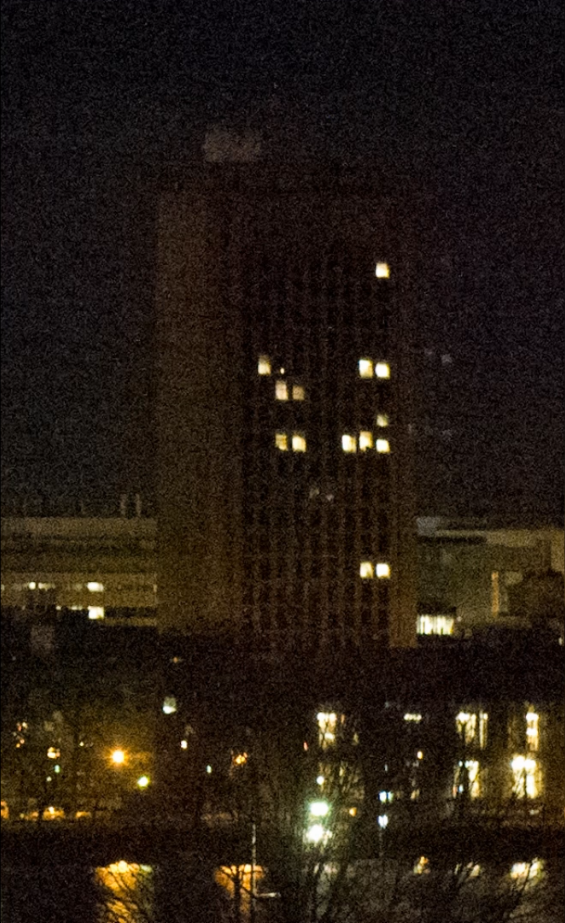
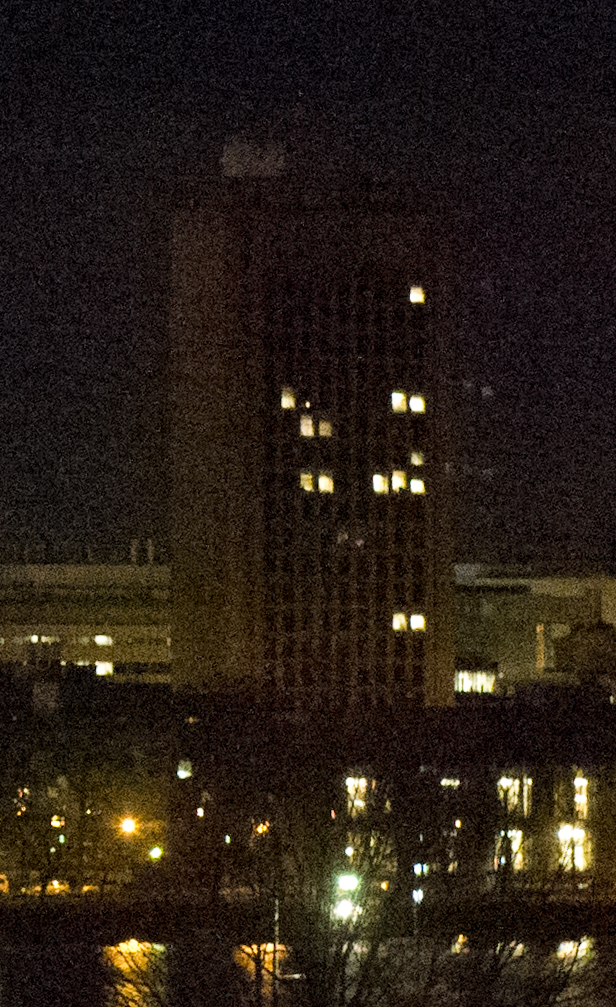
Bilateral vs non local means comparison images. Gallery bugfixes.

diff --git a/src/pages/portfolio/AdaptiveFilter.js b/src/pages/portfolio/AdaptiveFilter.js
@@ -64,7 +64,7 @@ class AdaptiveFilter extends CustomComponent
                 </Typography>
                 <Space size='sm'/>
                 {/* Images of manifold tree */}
-                <Gallery size='md' noMargins>
+                <Gallery size='md' >
                     <GalleryTile
                         image={CONSTANTS.IMAGES.PORTFOLIO.MANIFOLDS_FILTER.ORIGINAL}
                         caption='Example input image for adaptive manifolds technique.'
@@ -97,7 +97,7 @@ class AdaptiveFilter extends CustomComponent
                 </Typography>
                 <Space size='sm'/>
                 {/* Images of bilateral filter */}
-                <Gallery size='md' noMargins>
+                <Gallery size='md' >
                     <GalleryTile
                         image={CONSTANTS.IMAGES.PORTFOLIO.MANIFOLDS_FILTER.ORIGINAL}
                         caption='Original image before applying filter.'
@@ -120,14 +120,18 @@ class AdaptiveFilter extends CustomComponent
                 </Typography>
                 <Space size='sm'/>
                 {/* Images of non-local means denoising */}
-                <Gallery size='lg' noMargins>
+                <Gallery size='lg' >
                     <GalleryTile
                         image={CONSTANTS.IMAGES.PORTFOLIO.MANIFOLDS_FILTER.NOISY_IMAGE}
                         caption='Night photograph with strong noise.'
                     />
                     <GalleryTile
                         image={CONSTANTS.IMAGES.PORTFOLIO.MANIFOLDS_FILTER.NON_LOCAL_DENOISED}
-                        caption='Photograph after applying the non-local means filter using the adaptive manifolds technique.'
+                        caption='Photograph after applying the non-local means filter using the adaptive manifolds technique. Noise is substantially reduced.'
+                    />
+                    <GalleryTile
+                        image={CONSTANTS.IMAGES.PORTFOLIO.MANIFOLDS_FILTER.BILATERAL_DENOISED}
+                        caption='For comparison, same photograph denoised by a bilateral filter using adaptive manifolds. Leaves behind more noise than the non-local means filter.'
                     />
                 </Gallery>
                 <Space size='md'/>
@@ -147,7 +151,7 @@ class AdaptiveFilter extends CustomComponent
                 </Typography>
                 <Space size='sm'/>
                 {/* Images of depth of field */}
-                <Gallery size='md' noMargins>
+                <Gallery size='md' >
                     <GalleryTile
                         image={CONSTANTS.IMAGES.PORTFOLIO.MANIFOLDS_FILTER.FULL_FOCUS}
                         caption='Original image before post-process.'

diff --git a/src/components/Gallery.js b/src/components/Gallery.js
@@ -29,17 +29,16 @@ class Gallery extends CustomComponent
         this.onSlideRight = this.onSlideRight.bind(this);
         this.onPrevious = this.onPrevious.bind(this);
         this.onNext = this.onNext.bind(this);
-    }
+        this.onRefresh = this.onRefresh.bind(this);
 
-    componentDidMount() {
-        this.forceUpdate();
+        window.addEventListener('resize', this.onRefresh);
     }
 
     render()
     {
         let galleryRef = this.galleryRef.current;
         let negativeMarginSize = this.props.noMargins ? this.props.theme.spacing(-(CONSTANTS.ICON_BUTTON_SIZE + CONSTANTS.ICON_BUTTON_SPACING)) + 'px' : undefined;
-        if (galleryRef) console.log(galleryRef.clientWidth, galleryRef.scrollWidth)
+        
         return (
             <Box
                 display='flex'
@@ -73,7 +72,8 @@ class Gallery extends CustomComponent
                     {
                         React.Children.map(this.props.children, (child, index) => React.cloneElement(child, {
                             height: CONSTANTS.GALLERY_SIZES[this.props.size],
-                            onClick: this.onOpenImage(index)
+                            onClick: this.onOpenImage(index),
+                            onTileLoad: this.onRefresh
                         }))
                     }
                     <Dialog
@@ -158,6 +158,16 @@ class Gallery extends CustomComponent
                 </ConditionalRender>
             </Box>
         );
+    }
+
+    componentWillUnmount()
+    {
+        window.removeEventListener('resize', this.onRefresh);
+    }
+
+    onRefresh()
+    {
+        this.forceUpdate();
     }
 
     onOpenImage(index)

diff --git a/src/components/Page.js b/src/components/Page.js
@@ -45,8 +45,8 @@ class Page extends CustomComponent
                     <Box 
                         position='absolute'
                         width={this.props.maxWidth === 'fit' ? undefined : 1}
-                        padding={this.props.theme.spacing(CONSTANTS.SPACE_SIZES['sm'], 0, CONSTANTS.SPACE_SIZES['xl'], 0)}
                     >
+                        <Space size='xs'/>
                         <ConditionalWrapper
                             wrapper={<Container maxWidth={this.props.maxWidth}/>}
                             condition={this.props.maxWidth !== 'fit'}
@@ -54,6 +54,7 @@ class Page extends CustomComponent
                             <Space size='sm'/>
                             {React.Children.map(this.props.children, child => this.props.pageDeque.withDequeProps(child))}
                         </ConditionalWrapper>
+                        <Box ref={this.props.bottomRef}><Space size='lg'/></Box>
                     </Box>
                 </ConditionalWrapper>
                 <Box
@@ -71,6 +72,7 @@ class Page extends CustomComponent
                         </Fab>
                     </Fade>
                 </Box>
+                
             </React.Fragment>
         );
     }
@@ -104,6 +106,7 @@ Page.propTypes = {
     theme: PropTypes.object.isRequired,
     id: PropTypes.oneOfType([PropTypes.number, PropTypes.string]).isRequired,
     maxWidth: PropTypes.oneOf(['xs', 'sm', 'md', 'lg', 'xl', 'fit']),
+    bottomRef: PropTypes.object,
     pageDeque: PageDequePropType.isRequired,
     children: PropTypes.node
 };

diff --git a/src/pages/home/Home.js b/src/pages/home/Home.js
@@ -23,9 +23,11 @@ class Home extends CustomComponent
             <Page
                 id='home'
                 pageDeque={this.props.pageDeque}
+                bottomRef={this.moreRef}
             >
                 <Typography
-                    variant='h1'
+                    variant='h2'
+                    component='h1'
                     align='center'
                     gutterBottom
                 >
@@ -35,7 +37,7 @@ class Home extends CustomComponent
                 </Typography>
                 {
                     this.renderCareerTitles([
-                        'Recent Graduate',
+                        'Recent Master Graduate',
                         'Graphics Programmer',
                         'Software Engineer'
                     ])
@@ -50,12 +52,9 @@ class Home extends CustomComponent
                     <About/>
                     {ScrollToButton(this.moreRef)}
                 </Suggestions>
-                <Space size='md'/>
+                <Space size='xl'/>
                 <Center>
-                    <Box
-                        maxWidth={this.props.theme.spacing(CONSTANTS.HOME_LINK_BUTTONS_WIDTH)}
-                        ref={this.moreRef}
-                    >
+                    <Box maxWidth={this.props.theme.spacing(CONSTANTS.HOME_LINK_BUTTONS_WIDTH)}>
                         <NavigationButton
                             label={About.displayText}
                             pageDeque={this.props.pageDeque}

diff --git a/src/components/GalleryTile.js b/src/components/GalleryTile.js
@@ -12,10 +12,8 @@ class GalleryTile extends CustomComponent
         super(props);
 
         this.imageRef = React.createRef();
-    }
 
-    componentDidMount() {
-        this.forceUpdate();
+        this.onLoad = this.onLoad.bind(this);
     }
 
     render()
@@ -44,6 +42,7 @@ class GalleryTile extends CustomComponent
                     cursor={this.props.fullScreen ? undefined : 'zoom-in'}
                     imageRendering={this.props.imageRendering}
                     imgRef={this.imageRef}
+                    onLoad={this.onLoad}
                 />
                 <ConditionalRender condition={this.props.caption}>
                     <ConditionalWrapper
@@ -73,6 +72,13 @@ class GalleryTile extends CustomComponent
                 </ConditionalRender>
             </ConditionalWrapper>
         );
+    }
+
+    onLoad()
+    {
+        this.forceUpdate();
+        if (this.props.onTileLoad)
+            this.props.onTileLoad();
     }
 }
 

diff --git a/src/Constants.js b/src/Constants.js
@@ -203,6 +203,7 @@ export const IMAGES = readOnly({
             BILATERAL: 'portfolio/adaptive_manifolds/bilateral.png',
             NOISY_IMAGE: 'portfolio/adaptive_manifolds/noisy.png',
             NON_LOCAL_DENOISED: 'portfolio/adaptive_manifolds/non_local_denoised.png',
+            BILATERAL_DENOISED: 'portfolio/adaptive_manifolds/bilateral_denoised.png',
             FULL_FOCUS: 'portfolio/adaptive_manifolds/full_focus.png',
             DEPTH_MAP: 'portfolio/adaptive_manifolds/depth_map.png',
             FOCAL_DISTANCE: 'portfolio/adaptive_manifolds/focal_distance.png',
